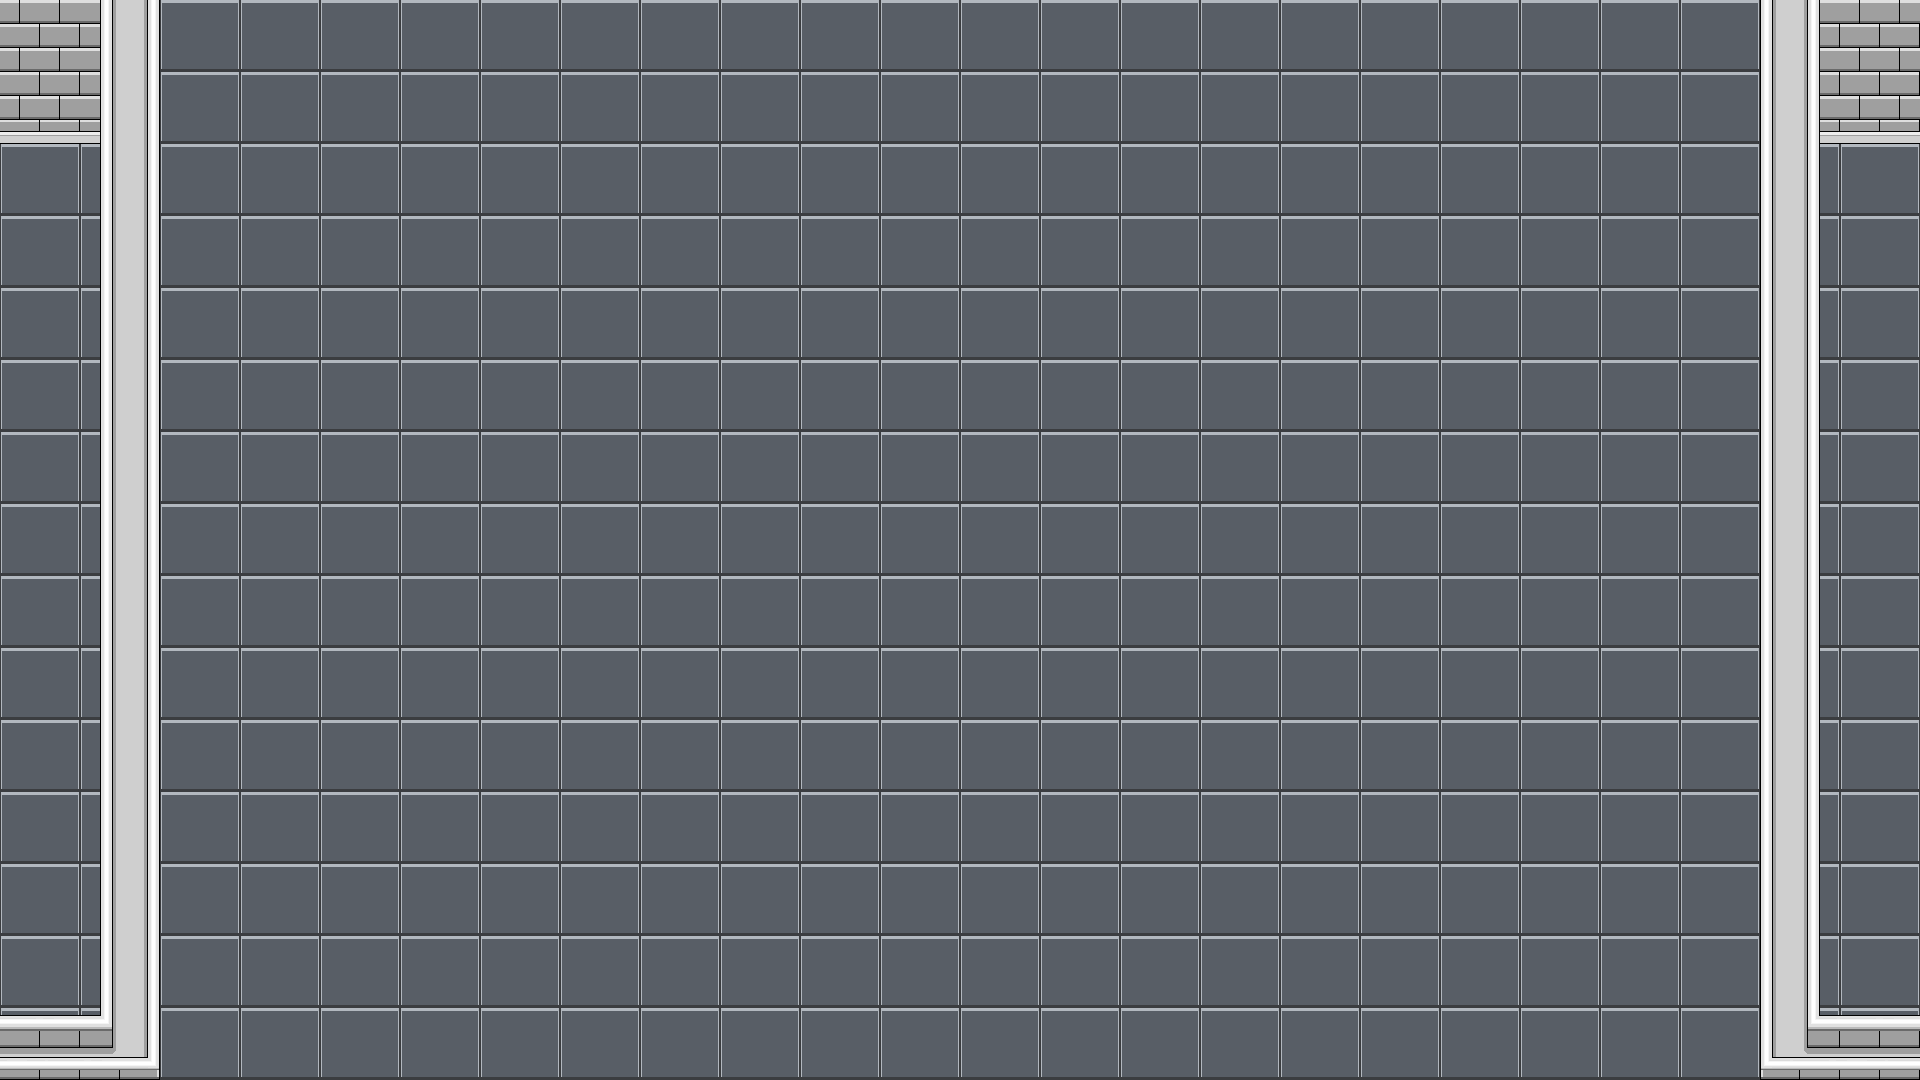
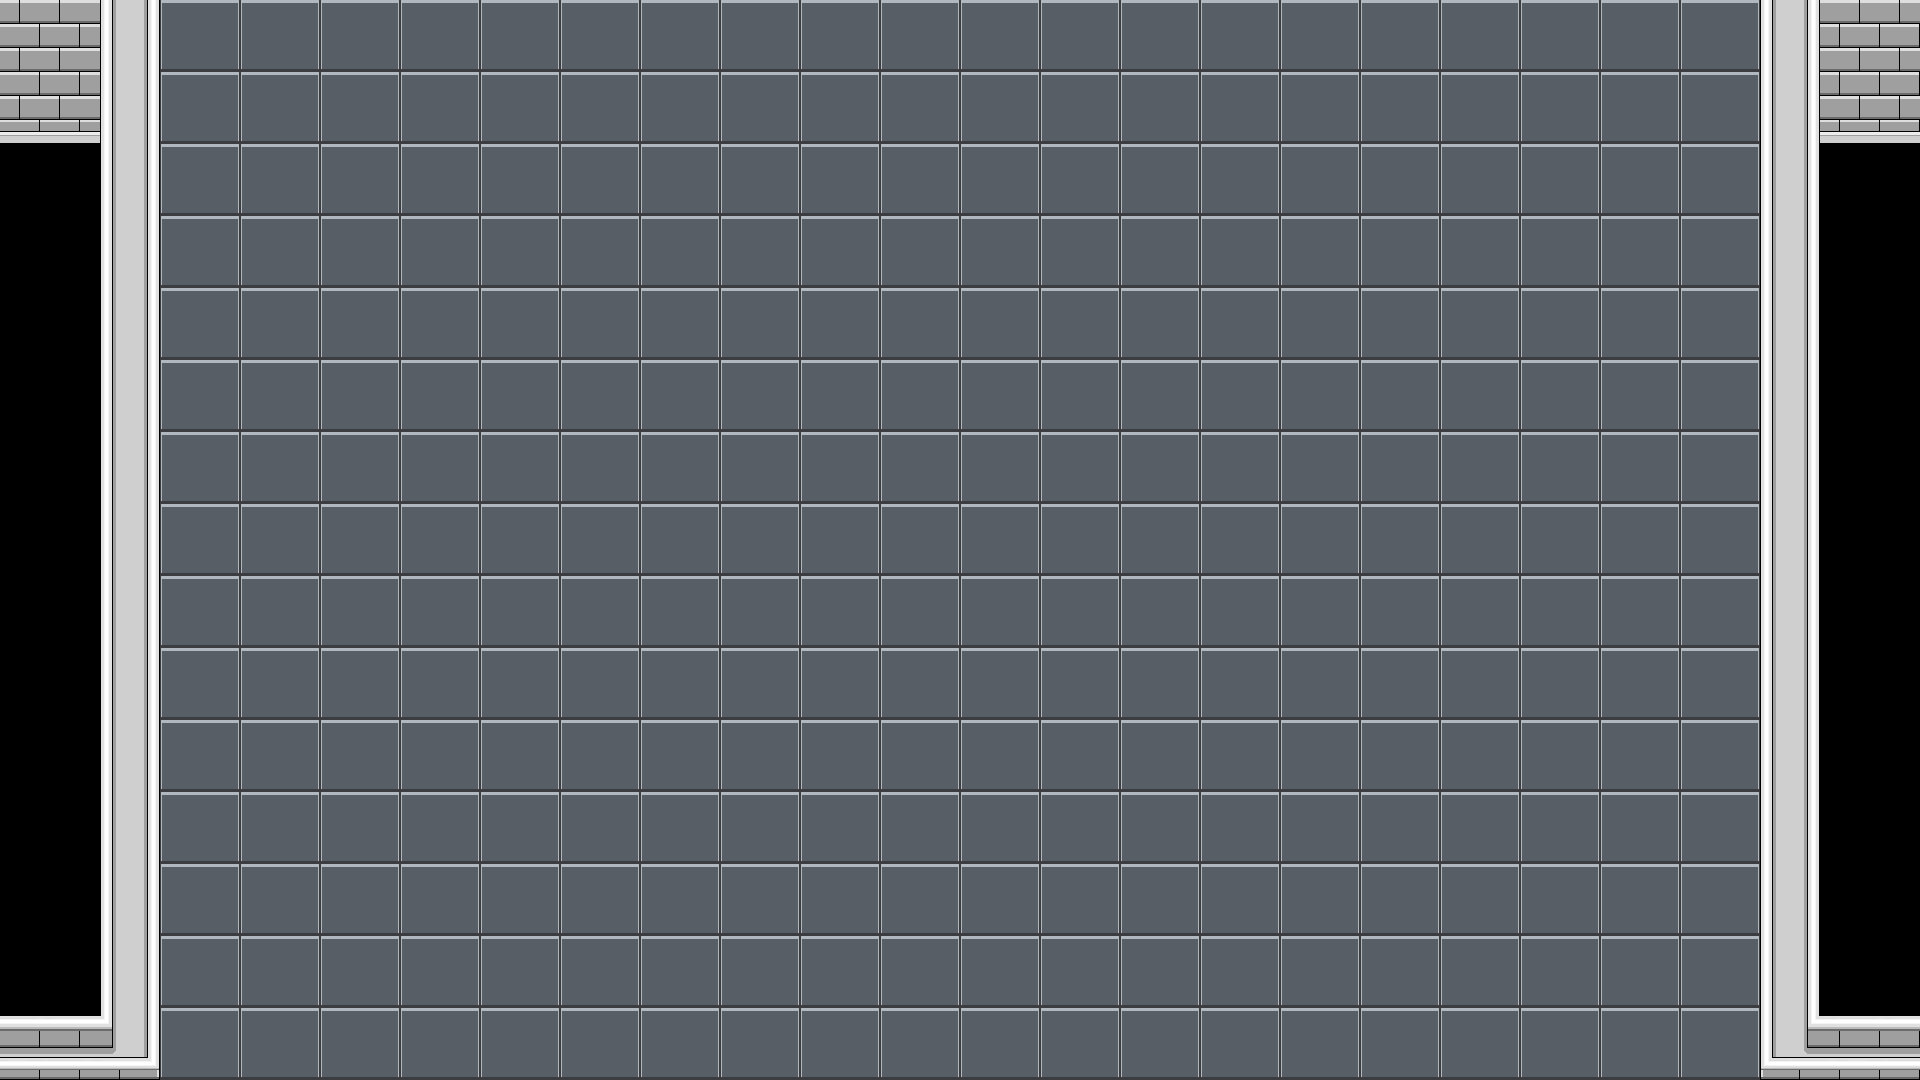
Even more new tiles
Fixed Vertical Staricases showing floortiles where black should have
been
More tiles so not so boring

Changed region(s): [[0.9375, 0.1222, 1.0, 0.9472], [0.0, 0.1222, 0.0625, 0.9472]]

diff --git a/www/load.js b/www/load.js
@@ -63,12 +63,19 @@ var loadState = function ()
 		game.load.image('generic_Straight_Hori_short_stairs1', 'assets/maps/backgrounds/Generics/Straight_Hori_short_stairs1.png');
 		game.load.image('generic_Straight_Hori_short1', 'assets/maps/backgrounds/Generics/Straight_Hori_short1.png');
 		game.load.image('generic_Straight_Hori_short2', 'assets/maps/backgrounds/Generics/Straight_Hori_short2.png');
+		game.load.image('generic_Straight_Hori_short3', 'assets/maps/backgrounds/Generics/Straight_Hori_short3.png');
+		Straight_Hori_short_Enlarged1
+		Straight_Hori_short_Enlarged2
 			//Turns
 		game.load.image('generic_Turn_EtN1', 'assets/maps/backgrounds/Generics/Turn_EtN1.png');
 		game.load.image('generic_Turn_EtN2', 'assets/maps/backgrounds/Generics/Turn_EtN2.png');
+		game.load.image('generic_Turn_EtN3', 'assets/maps/backgrounds/Generics/Turn_EtN3.png');
 		game.load.image('generic_Turn_EtS1', 'assets/maps/backgrounds/Generics/Turn_EtS1.png');
+		game.load.image('generic_Turn_EtS2', 'assets/maps/backgrounds/Generics/Turn_EtS2.png');
 		game.load.image('generic_Turn_WtN1', 'assets/maps/backgrounds/Generics/Turn_WtN1.png');
+		game.load.image('generic_Turn_WtN2', 'assets/maps/backgrounds/Generics/Turn_WtN2.png');
 		game.load.image('generic_Turn_WtS1', 'assets/maps/backgrounds/Generics/Turn_WtS1.png');
+		game.load.image('generic_Turn_WtS2', 'assets/maps/backgrounds/Generics/Turn_WtS2.png');
 
 		 
 		 
